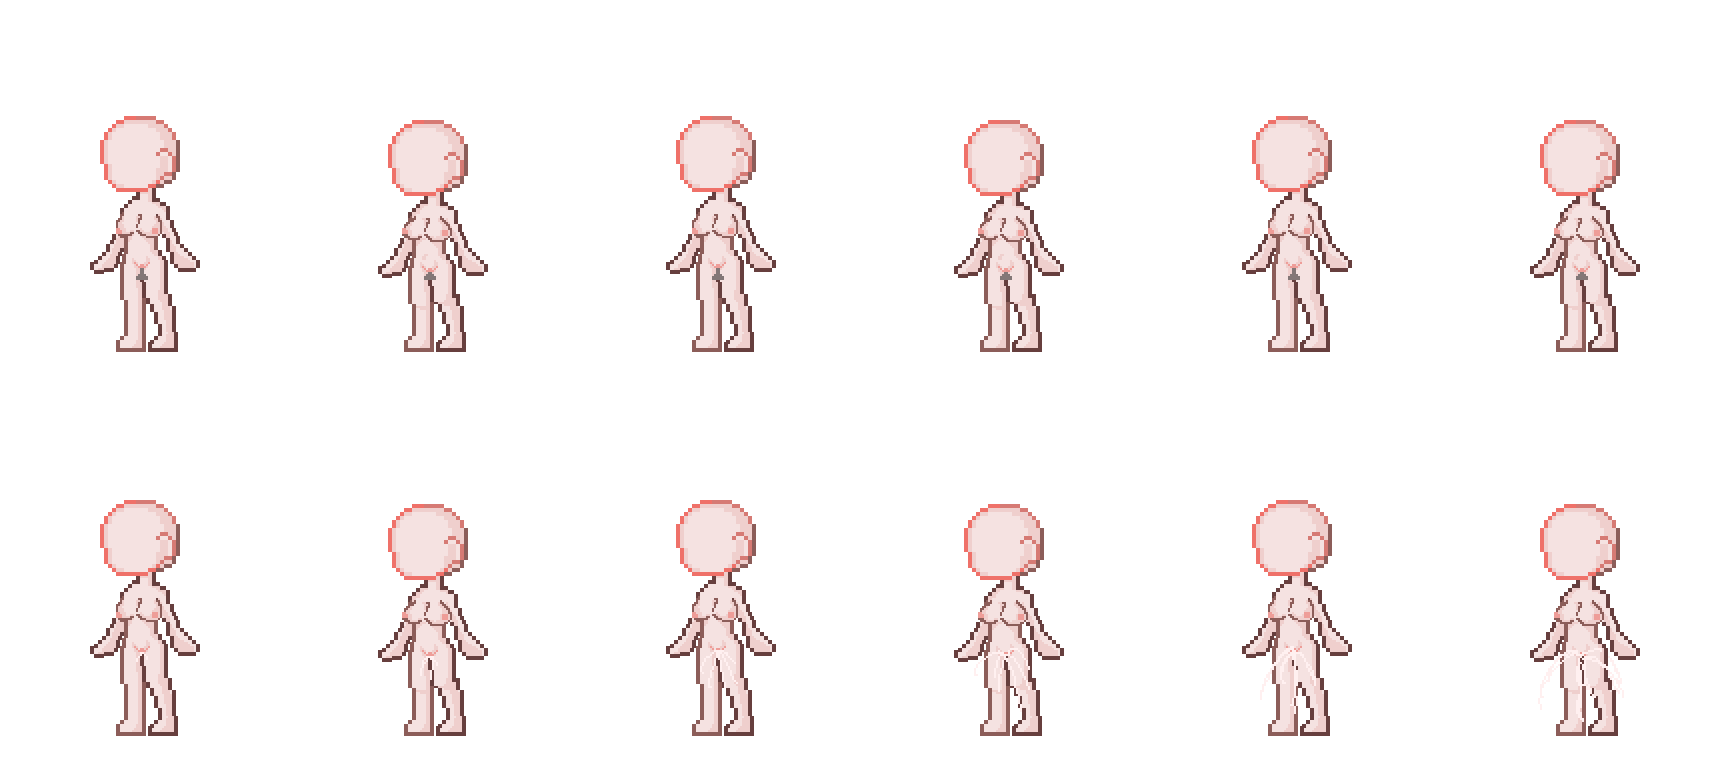
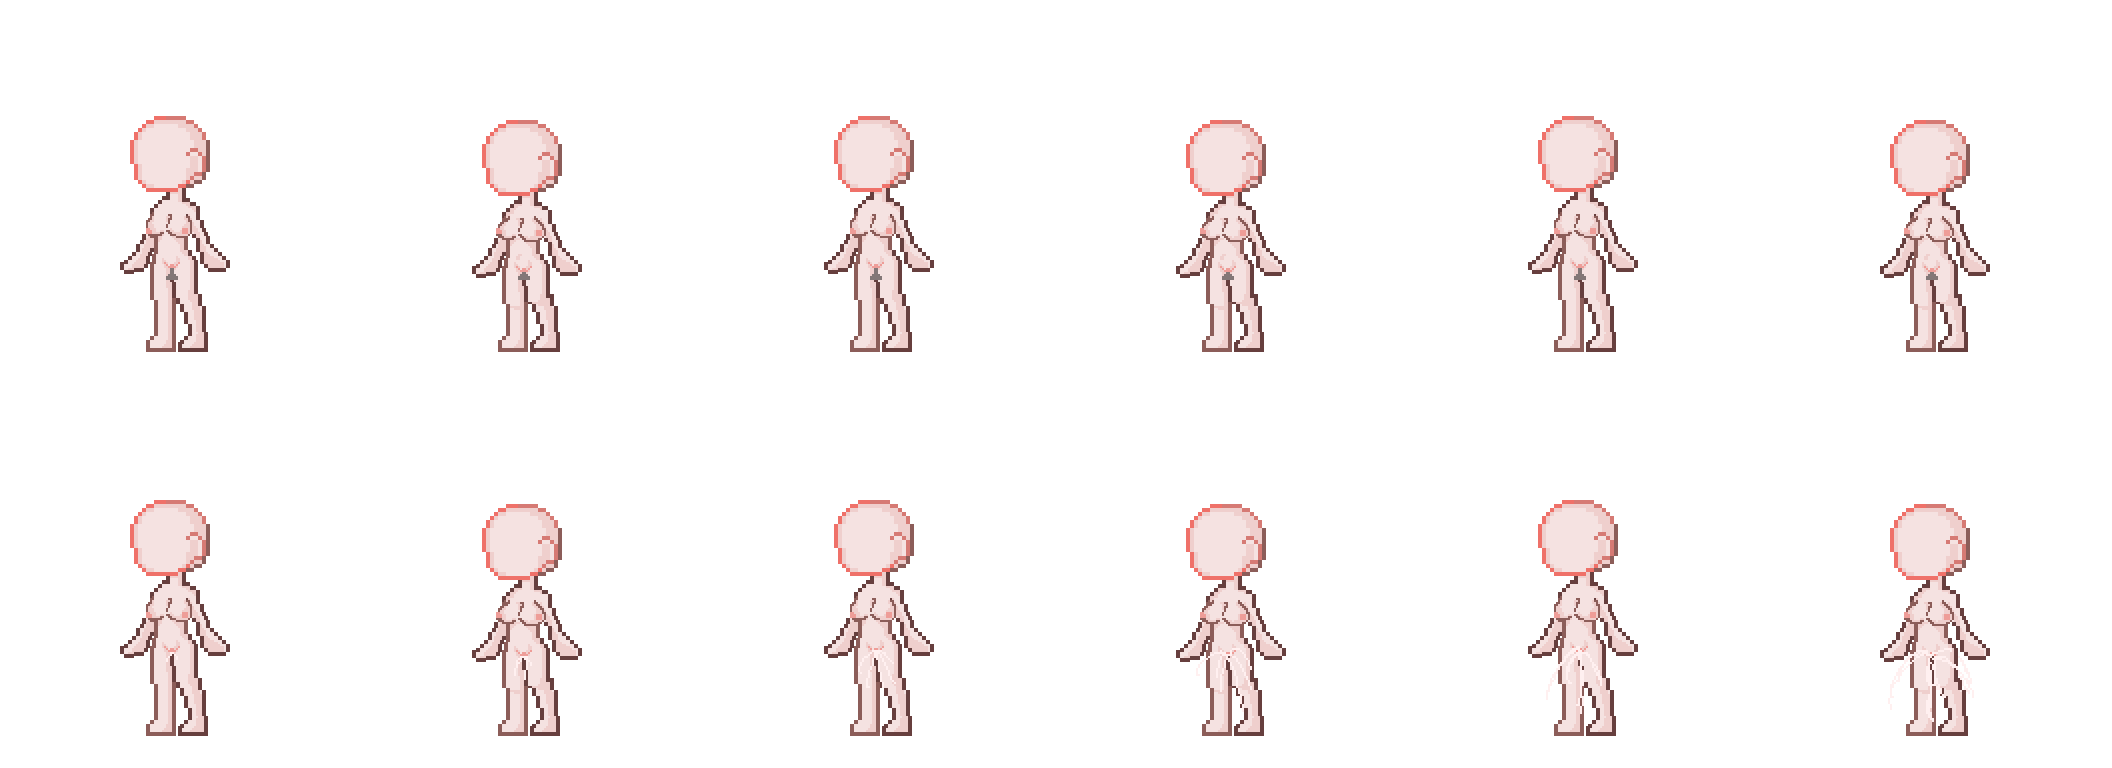
레드 비키비키니 (겉옷) — 상담사 · Owner 만 · 여성 체형일 때만 입는다 (다른 몸이면 안 그림 · 옷장에서 체형을 바꾸면 벗김) · 입으면 다른 칸 옷은 안 그림 · 서기 7~12 도 돈다 올려 주신 간지럽히기 그림(1728 장)을 352 칸(+30)으로 옮김
Claude-Session: https://claude.ai/code/session_01RPXm6EaznB8GHqgQmkvgTr

diff --git a/closet.js b/closet.js
@@ -142,6 +142,7 @@ const DOT = {
     //   땅에서 32px 떠 보인다. 광장과 옷장 둘 다 이만큼 내려 놓는다.
     FOOT: 32,
     BODY: 'body', BROWN_BODY: 'body-brown', BROWN_HEAD: 'h-brown',
+    FEM_BODY: 'body-w',                        // 여성 체형 몸 — fem 이 붙은 옷은 이 몸일 때만 입는다 (2026-11-07)
     ADMIN: 'kario0987',
     BLINK: [1900, 110, 110, 110, 110, 110],   // 머리 칸마다 머무는 시간
     FLAP: 300,                                 // 옷자락 나부끼는 빠르기
@@ -153,7 +154,7 @@ const DOT = {
     //   ★ LP 판(악세 · 2026-10-23)도 맨 앞 — 발밑에 깔리고 날아다니는 조각은 옷 뒤로 지나간다 (몸 자리는 그림에서 비워 두었다)
     //   ★ 뉴비 세트 (2026-10-25) — 장화는 신발 줄 끝 · 의상은 겉옷 줄(사운드 의상 다음) · 병아리 후드 그림자(newbie-hood-in)는
     //     늑대 잠옷 그림자 다음 (머리카락 뒤 · 옷 위). 후드 바깥(newbie-hood)은 머리 위(top).
-    Z: ['sound-lp', 'sexy-pantsu', 'gochu', 'sound-coat-in', 'pj-bottom', 'shoes', 'shoes-black', 'han-shoes', 'maker-shoes', 'sound-shoes', 'newbie-boots', 'sailor-shoes', 'pj-top', 'knit', 'gym-suit', 'han-inner',
+    Z: ['sound-lp', 'sexy-pantsu', 'gochu', 'red-bikini', 'sound-coat-in', 'pj-bottom', 'shoes', 'shoes-black', 'han-shoes', 'maker-shoes', 'sound-shoes', 'newbie-boots', 'sailor-shoes', 'pj-top', 'knit', 'gym-suit', 'han-inner',
         'dress', 'tuxedo', 'suit', 'black-suit', 'dream-suit', 'brown-suit', 'agent1', 'agent2', 'maker-outfit', 'sound-outfit', 'newbie-outfit', 'sailor-bubble',
         'school-m', 'sdress', 'devil-m', 'devil-f',         // 의상 1차 (2026-11-04)
         'robe', 'han-duru', 'cape', 'sound-coat', 'maker-outer-in', 'wolf-pj-in', 'newbie-hood-in', 'glove', 'bungeo'],
@@ -228,6 +229,8 @@ const DOT = {
                  'sailor-bubble': [0, 1, 2, 3, 4, 5],
                  // 숏 드레스 (2026-11-04) — 서기 줄 여섯 칸에 나비가 날고 리본이 흔들린다 (몸은 첫 칸 그대로)
                  'sdress': [0, 1, 2, 3, 4, 5],
+                 // 레드 비키비키니 (2026-11-07) — 서기 줄 여섯 칸(7~12번)이 저마다 다르다 · 여성 체형 몸과 같은 시계로 돈다
+                 'red-bikini': [0, 1, 2, 3, 4, 5],
                  // 여성 체형 (2026-11-06 사용자 「서있을 때 7번으로 고정 · 움직이게 그렸는데」) — 서기 줄 여섯 칸(7~12번)이 저마다 다르다
                  'body-w': [0, 1, 2, 3, 4, 5],
                  // LP 판 — 서기 줄 여섯 칸에 판이 돈다 (2026-10-23)
@@ -483,6 +486,11 @@ const DOT_SLOTS = [
             { i: 'sdress', n: '숏 드레스', over: ['sdress'], own: 'sdress', body: 'body-f', alone: true },
             { i: 'devil-m', n: '악마(남자)', over: ['devil-m'], own: 'devil-m', alone: true },
             { i: 'devil-f', n: '악마(여자)', over: ['devil-f'], own: 'devil-f', alone: true },
+            // ★ 레드 비키비키니 (2026-11-07 사용자 「Owner랑 상담사한테만 넣어 주고 여성 신체만 입을 수 있게 해줘. 이름은 레드 비키비키니. 겉옷 쪽에」)
+            //   주신 그림은 1728x768 (칸 288) — 칸마다 가로 +30 으로 352 칸에 옮겼다. 여성 체형(body-w) 몸에 대 보니 걷기 · 서기 열두 칸이 맞았다.
+            //   owner — 상담사 + Owner 사원만 · fem — 몸이 여성 체형일 때만 입는다 (look 이 다른 몸이면 안 그린다 · 옷장은 체형이 여성일 때만 고르게)
+            //   alone — 입으면 다른 칸의 옷(상의 · 하의 · 구두 · 장갑 · 망토)은 고른 채로 두고 안 그린다 (악세는 그대로) · 서기 여섯 칸을 돈다 (FLAP_COLS)
+            { i: 'rbikini', n: '레드 비키비키니', over: ['red-bikini'], owner: true, fem: true, alone: true },
             // ★ 의상 뽑기 탈 세 벌 + 퐁실 의상 (2026-10-25) — 주신 그림은 432x192 (칸 72x96) 라
             //   네 배로 늘려 칸마다 가로 +30 으로 352 칸에 옮겼다 (다섯 벌 · 2026-10-23 과 같은 길).
             //   탈 셋은 머리까지 감싸고 얼굴만 뚫려 있어 **머리 위**(top)에 얹는다 — 늑대 잠옷 바깥과 같다.
@@ -733,6 +741,12 @@ function items(slot, user) {
     return slot.items.filter(function (it) { return allowed(it, user); });
 }
 function slotOf(k) { return DOT_SLOTS.filter(function (s) { return s.k === k; })[0]; }
+// 이 체형(shape 칸의 열쇠)이 여성 체형 몸인가 — fem 옷을 고를 수 있나 (2026-11-07)
+function femShape(v) {
+    const s = slotOf('shape');
+    const it = s ? s.items.filter(function (x) { return x.i === (v || ''); })[0] : null;
+    return !!(it && it.body === D.FEM_BODY);
+}
 
 // ★ 여러 개 겹쳐 다는 칸(악세) — 적힌 한 줄을 목록으로 푼다
 //
@@ -893,6 +907,20 @@ function look(user, override, all) {
     if (!hd.solo && !hd.bare) {
         const bodyIt = chosen.filter(function (x) { return x.body && !x.shape; })[0] || chosen.filter(function (x) { return x.body; })[0];   // 옷의 몸 > 체형
         if (bodyIt) bodySheet = bodyIt.body;
+        // ★ 여성 체형에서만 입는 옷 (fem · 레드 비키비키니 · 2026-11-07) — 몸이 여성 체형이 아니면 안 그리고 alone 도 안 건다
+        //   (체형을 기본으로 돌렸거나 · 사원증 · 정보 열람처럼 늘 기본 몸으로 그리는 자리)
+        if (bodySheet !== D.FEM_BODY) {
+            for (let i = chosen.length - 1; i >= 0; i--) {
+                const x = chosen[i];
+                if (!x.fem) continue;
+                const off = {};
+                (x.back || []).concat(x.over || [], x.top || []).forEach(function (o) { off[o] = 1; });
+                [over, tops, backs].forEach(function (arr) {
+                    for (let j = arr.length - 1; j >= 0; j--) if (off[arr[j]]) arr.splice(j, 1);
+                });
+                chosen.splice(i, 1);
+            }
+        }
         const lone = chosen.filter(function (x) { return x.alone; })[0];
         if (lone) {
             const mine = {};
@@ -1887,7 +1915,26 @@ function tap(kind, k, v) {
             return;
         } else sel.push(v);
         p[s.k] = accJoin(sel, max);
-    } else { p[k] = v; }
+    } else {
+        // ★ 여성 체형에서만 입는 옷 (fem · 레드 비키비키니 · 2026-11-07) — 체형이 여성일 때만 고른다 ·
+        //   체형을 다른 것으로 바꾸면 입고 있던 그 옷은 벗긴다 (없음)
+        const s = slotOf(k);
+        const it = s ? s.items.filter(function (x) { return x.i === v; })[0] : null;
+        if (it && it.fem && !femShape(p.shape)) {
+            const n = document.getElementById('closet-note');
+            if (n) { n.innerText = '여성 체형일 때만 입을 수 있습니다.'; setTimeout(note_, 1800); }
+            return;
+        }
+        p[k] = v;
+        if (k === 'shape' && !femShape(v)) {
+            DOT_SLOTS.forEach(function (o) {
+                if (o.max) return;
+                const w = o.items.filter(function (x) { return x.i === (p[o.k] || ''); })[0];
+                if (w && w.fem) p[o.k] = '';
+            });
+            markOn();
+        }
+    }
     if (setSel) { setSel = null; setAsk = null; paintSets(); }     // 손으로 갈아입었다 — 고른 코디 표시를 푼다
     markOn();
     paintCols();      // 갈아입었으니 물들일 거리도 달라진다
